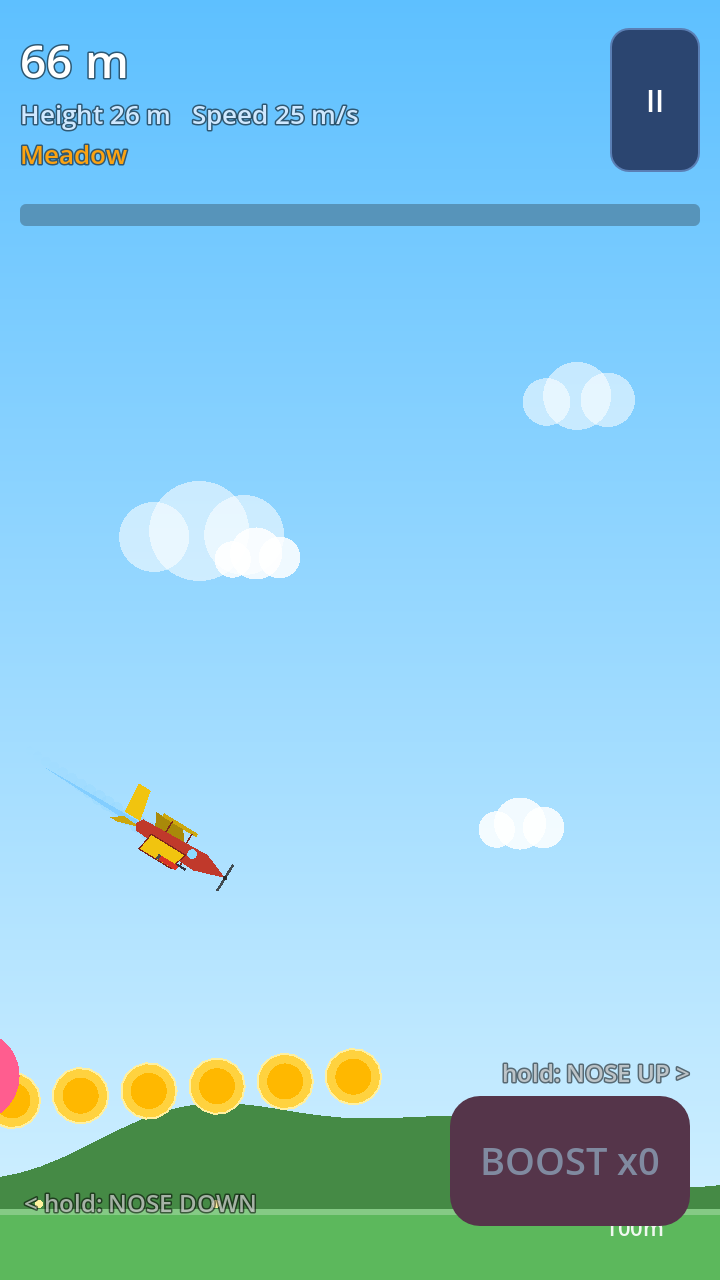
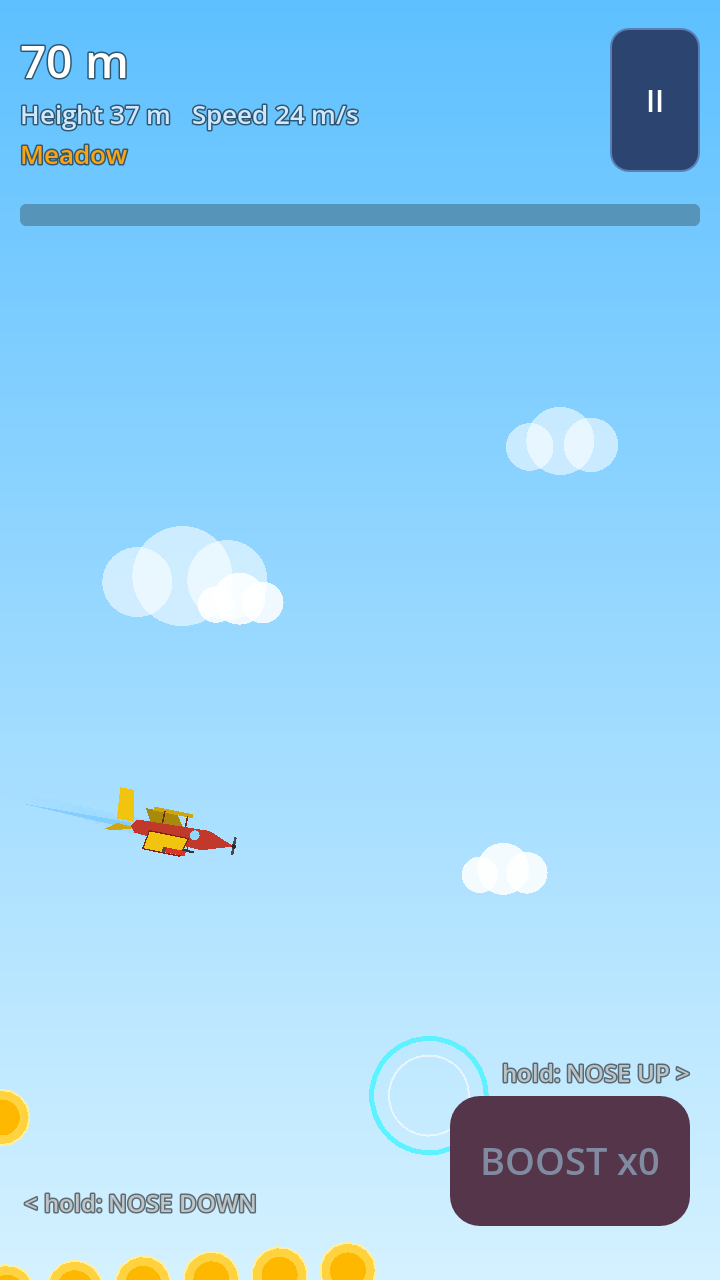
feat: Sky Fling v1 (game, tests, APK/web export setup, README)

diff --git a/README.md b/README.md
@@ -1,0 +1,42 @@
+# Sky Fling
+
+Fling a paper plane from a slingshot, grab coins, bolt on better parts and evolve it all the way to a Space Plane.
+Reach Space, rebirth for Stars, and go even farther. A portrait mobile game made with Godot 4 (GDScript).
+No ads, no in-app purchases, no third-party assets: all art and sound are generated in code.
+
+![launch](docs/screenshots/launch.png) ![flight](docs/screenshots/flight.png) ![hangar](docs/screenshots/hangar.png) ![result](docs/screenshots/result.png)
+
+## Controls
+| Action | Touch | Keyboard / mouse |
+|---|---|---|
+| Aim and launch | Drag back from the slingshot, release | Mouse drag, release |
+| Nose up / down | Hold right half / left half of the screen | Right, D, Up, W / Left, A |
+| Boost rocket | BOOST button | Space |
+| Pause / back | Pause button, Android back | Esc |
+
+## Features
+- Physics flight (gravity, drag, lift by angle of attack, stalls, fuel, boost charges), fixed 60 Hz step, seeded worlds.
+- 8 upgradable parts (wings, tail, body, engine, fuel tank, booster, slingshot, skids), 5-8 levels each with geometric prices; each level changes the plane's look.
+- 7 plane tiers: Paper plane, Balsa glider, Biplane, Prop plane, Jet, Rocket plane, Space plane, with an "Evolved!" celebration.
+- 8 sky zones (Meadow, Hills, Sea, Desert, Mountains, Clouds, Upper Air, Space); Space has low gravity and thin air.
+- Pickups and hazards: coins and coin lines, fuel cans, boost rings, updrafts, balloons, birds, storm clouds.
+- 3 rolling missions, 33 trophies, daily reward with streak, best-flights page, records.
+- Rebirth after reaching Space (600 m height): Stars buy permanent perks (coin boost, spare fuel, cheaper parts, head start).
+- Versioned autosave in `user://`, corrupt saves start fresh, reset option with confirmation. Generated SFX with a mute toggle.
+
+## Install the Android APK
+`tools/build_apk.sh` builds `build/SkyFling.apk` (arm64-v8a, debug-signed). Copy it to the phone and open it
+(allow "install unknown apps"), or `adb install build/SkyFling.apk`.
+Needs Godot 4.7.2 with export templates, JDK 17 and the Android SDK (paths at the top of the script).
+
+## Web build
+`godot --headless --path . --export-release Web build/web/index.html` (single-threaded; any static host works).
+
+## Develop
+- Rules and balance live in `scripts/core/*` (pure scripts, headless-testable); UI in `scripts/game/*`.
+- **One test command:** `tools/run_tests.sh` (unit, upgrades-matter, 10,000-flight NaN stress, balance simulation,
+  UI smoke with real input events, layout at 720x1280 and 1080x2400, plus negative tests that sabotage the code and must be caught).
+- `tools/shots.sh` captures the screenshots under Xvfb.
+
+## License
+MIT
